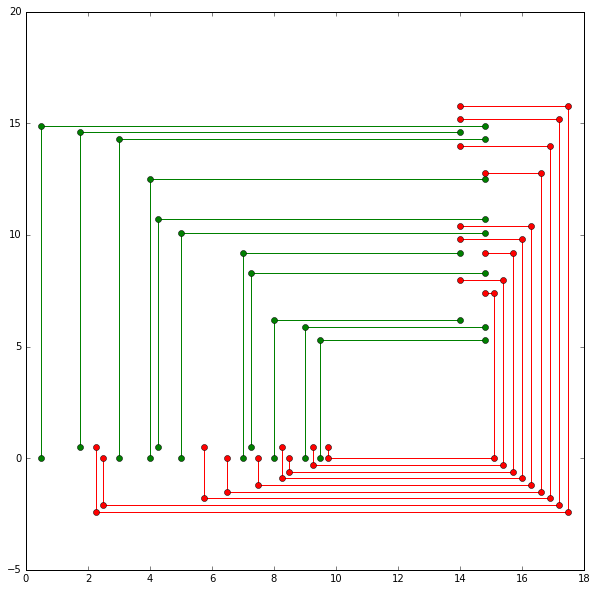
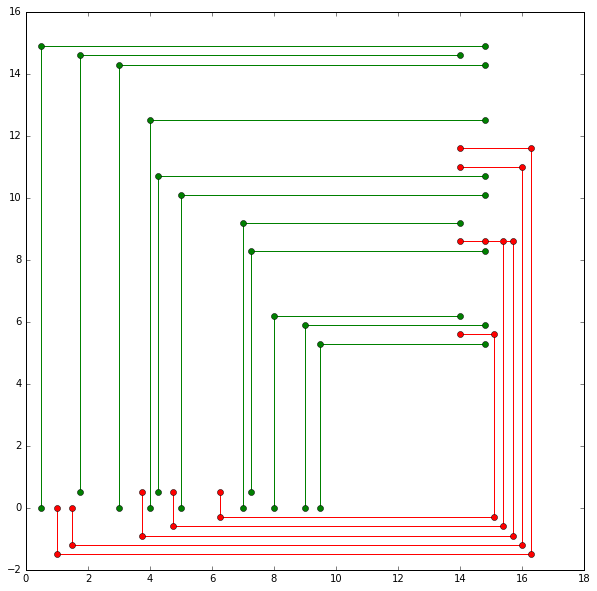
new_embedding and geometri initial commit

diff --git a/code/utils.py b/code/utils.py
@@ -145,3 +145,53 @@ def embedding_squared(connections, int_seq, ext_seq, chip_1, chip_2):
         ext_seq_lines.append((x, y))
     
     return int_seq_lines, ext_seq_lines
+
+
+def embedding(connections, int_seq, ext_seq, chip_1, chip_2):
+    """ DEVELOPMENT VERSION """
+    
+    int_seq_lines = []
+    ext_seq_lines = []
+    
+    #internal lines formantion:
+    for connect in connections.values[int_seq]:
+        x = [chip_1.values[connect[0]][0], chip_1.values[connect[0]][0], 14.0, chip_2.values[connect[1]][0]]
+        y = [chip_1.values[connect[0]][1], 0.5]
+
+        if chip_2.values[connect[1]][0] > 14.5:
+            y.append(chip_2.values[connect[1]][1]+0.3)
+            y.append(chip_2.values[connect[1]][1]+0.3)
+        else:
+            y.append(chip_2.values[connect[1]][1])
+            y.append(chip_2.values[connect[1]][1])
+        int_seq_lines.append((x, y))
+    
+    #external lines formation:
+    for num, connect in enumerate(connections.values[ext_seq]):
+        if chip_2.values[connect[1]][0] < 14.5:
+            x = [chip_1.values[connect[0]][0],
+                 chip_1.values[connect[0]][0],
+                 chip_2.values[connect[1]][0]+0.8+0.3*(num+1), #?????
+                 chip_2.values[connect[1]][0]+0.8+0.3*(num+1), #?????
+                 chip_2.values[connect[1]][0]]
+            y = [chip_1.values[connect[0]][1],
+                 0-0.3*(num+1),
+                 0-0.3*(num+1),
+                 chip_2.values[connect[1]][1], 
+                 chip_2.values[connect[1]][1]]
+        else:
+            x = [chip_1.values[connect[0]][0],
+                 chip_1.values[connect[0]][0],
+                 chip_2.values[connect[1]][0]+0.3*(num+1), #??????
+                 chip_2.values[connect[1]][0]+0.3*(num+1), #??????
+                 chip_2.values[connect[1]][0]]
+            y = [chip_1.values[connect[0]][1],
+                 0-0.3*(num+1),
+                 0-0.3*(num+1),
+                 chip_2.values[connect[1]][1], 
+                 chip_2.values[connect[1]][1]]
+            
+            
+        ext_seq_lines.append((x, y))
+    
+    return int_seq_lines, ext_seq_lines
